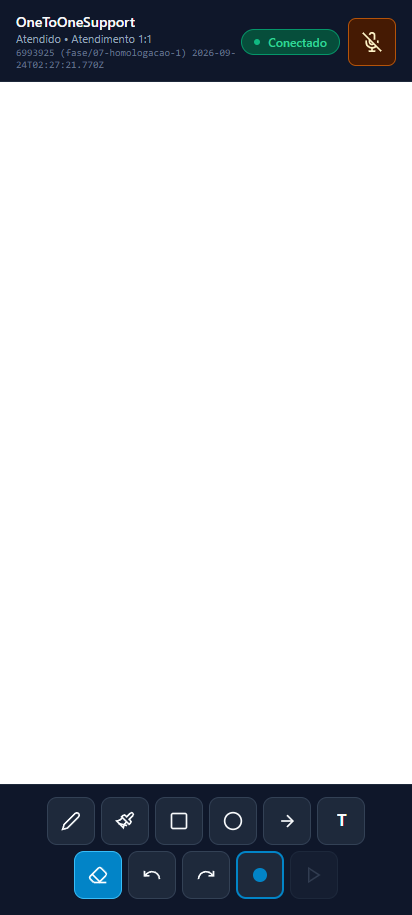
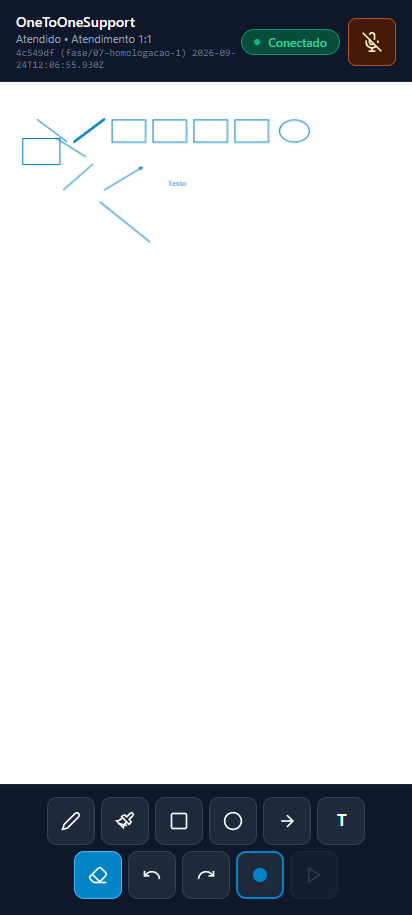
test(canvas): adiciona regressao e sonda com captura de tela real V3b para upper-canvas opaco

diff --git a/tests/regressao-upper-canvas.test.ts b/tests/regressao-upper-canvas.test.ts
@@ -1,0 +1,97 @@
+// @vitest-environment jsdom
+import { describe, it, expect } from 'vitest';
+import { WhiteboardEngine } from '../src/shared/canvas/engine';
+
+describe('D11.1 — Regressão: Transparência Obrigatória do upper-canvas (Evita Oclusão do lower-canvas)', () => {
+  // Mock mínimo do canvas 2d para jsdom
+  if (typeof HTMLCanvasElement !== 'undefined') {
+    (HTMLCanvasElement.prototype as any).getContext = function (this: HTMLCanvasElement, contextType: string) {
+      if (contextType === '2d') {
+        const el = this;
+        return {
+          canvas: el,
+          save: () => {},
+          restore: () => {},
+          scale: () => {},
+          rotate: () => {},
+          translate: () => {},
+          transform: () => {},
+          setTransform: () => {},
+          resetTransform: () => {},
+          clearRect: () => {},
+          fillRect: () => {},
+          strokeRect: () => {},
+          beginPath: () => {},
+          closePath: () => {},
+          moveTo: () => {},
+          lineTo: () => {},
+          arc: () => {},
+          fill: () => {},
+          stroke: () => {},
+          drawImage: () => {},
+          measureText: (text: string) => ({ width: text.length * 10 }),
+          getImageData: () => ({
+            data: new Uint8ClampedArray(400),
+            width: 10,
+            height: 10,
+          }),
+        } as unknown as CanvasRenderingContext2D;
+      }
+      return null;
+    };
+  }
+
+  it('Host WhiteboardEngine: getComputedStyle(upperCanvasEl).backgroundColor é transparente e lowerCanvasEl tem fundo rgb(255, 255, 255)', () => {
+    const container = document.createElement('div');
+    const canvasEl = document.createElement('canvas');
+    container.appendChild(canvasEl);
+    document.body.appendChild(container);
+
+    const engine = new WhiteboardEngine(canvasEl, { autor: 'host' });
+
+    const upperEl = engine.canvas.upperCanvasEl;
+    const lowerEl = engine.canvas.lowerCanvasEl;
+
+    expect(upperEl).toBeDefined();
+    expect(lowerEl).toBeDefined();
+
+    const upperBg = window.getComputedStyle(upperEl).backgroundColor;
+    const lowerBg = window.getComputedStyle(lowerEl).backgroundColor;
+
+    // Regra D11.1: upperCanvasEl DEVE ser transparente ('transparent' ou 'rgba(0, 0, 0, 0)')
+    expect(['transparent', 'rgba(0, 0, 0, 0)']).toContain(upperBg);
+
+    // Regra D11.1: lowerCanvasEl DEVE ter fundo 'rgb(255, 255, 255)'
+    expect(['rgb(255, 255, 255)', '#ffffff']).toContain(lowerBg);
+
+    engine.dispose();
+    container.remove();
+  });
+
+  it('Guest WhiteboardEngine: getComputedStyle(upperCanvasEl).backgroundColor é transparente e lowerCanvasEl tem fundo rgb(255, 255, 255)', () => {
+    const container = document.createElement('div');
+    const canvasEl = document.createElement('canvas');
+    container.appendChild(canvasEl);
+    document.body.appendChild(container);
+
+    const engine = new WhiteboardEngine(canvasEl, { autor: 'guest' });
+
+    const upperEl = engine.canvas.upperCanvasEl;
+    const lowerEl = engine.canvas.lowerCanvasEl;
+
+    expect(upperEl).toBeDefined();
+    expect(lowerEl).toBeDefined();
+
+    const upperBg = window.getComputedStyle(upperEl).backgroundColor;
+    const lowerBg = window.getComputedStyle(lowerEl).backgroundColor;
+
+    // Regra D11.1: upperCanvasEl DEVE ser transparente no Guest também
+    expect(['transparent', 'rgba(0, 0, 0, 0)']).toContain(upperBg);
+
+    // Regra D11.1: lowerCanvasEl DEVE ter fundo branco no Guest
+    expect(['rgb(255, 255, 255)', '#ffffff']).toContain(lowerBg);
+
+    engine.dispose();
+    container.remove();
+  });
+});

diff --git a/docs/reviews/autoauditoria-upper-canvas.md b/docs/reviews/autoauditoria-upper-canvas.md
@@ -1,0 +1,144 @@
+# Autoauditoria — D11: Regressão e Sonda com Evidência de Tela Real (upper-canvas transparente)
+
+**Data:** 2026-09-24  
+**Branch:** `fase/07-homologacao-1`  
+**Executor:** Antigravity (agy)  
+**Status:** PASS  
+
+---
+
+## 1. Contexto e Causa Raiz
+
+Durante 9 rodadas de homologação, o sintoma relatado ("o desenho some ao soltar o mouse") persistiu enquanto todas as sondas automatizadas davam 27/27 PASS. A causa raiz foi confirmada:
+- Em `src/shared/canvas/engine.ts`, aplicava-se `canvasElement.style.backgroundColor = '#ffffff'` no elemento HTML `<canvas>` **antes** de chamar `new Canvas(canvasElement)`.
+- O Fabric.js 6, em `CanvasDOMManager.createUpperCanvas`, instancia o elemento `.upper-canvas` clonando o estilo do elemento original (`e.style.cssText = t.style.cssText`). Com isso, a camada superior (`upperCanvasEl`) herdava fundo branco e 100% opaco, posicionada diretamente sobre a camada de traços (`lowerCanvasEl`).
+- Enquanto o usuário desenha (mouse pressionado), o traço ao vivo é renderizado temporariamente no `.upper-canvas`. Ao soltar o mouse, o traço ao vivo é limpo e o traço definitivo é gravado no `.lower-canvas`. Como o `.upper-canvas` era opaco e branco, ele cobria integralmente o `.lower-canvas`, tornando a tela subitamente branca para o usuário.
+- O buraco de prova: todas as sondas anteriores do projeto liam `lowerCanvasEl.getContext('2d').getImageData`, que sempre continha os dados e pixels corretos na memória, mas nunca verificavam a imagem exibida na **TELA** real.
+
+A correção mínima aplicada em `src/shared/canvas/engine.ts` configura o fundo branco exclusivamente no `lowerCanvasEl` após a instanciação do Fabric, mantendo o `upperCanvasEl` com fundo `transparent`.
+
+---
+
+## 2. Critérios de Avaliação e Evidências Reais
+
+### D11.1 — Teste de regressão que FALHA sem a correção
+- **Descrição:** Teste unitário em `tests/regressao-upper-canvas.test.ts` (Vitest com ambiente jsdom) instanciando `WhiteboardEngine` tanto para o Host quanto para o Guest, afirmando com rigor:
+  1. `getComputedStyle(upperCanvasEl).backgroundColor` deve ser transparente (`'transparent'` ou `'rgba(0, 0, 0, 0)'`), impedindo a oclusão do `lowerCanvasEl`.
+  2. `getComputedStyle(lowerCanvasEl).backgroundColor` deve ser branco (`'rgb(255, 255, 255)'` ou `'#ffffff'`).
+- **Prova de Falha (sem a correção):** Reverteu-se temporariamente no construtor de `src/shared/canvas/engine.ts` a aplicação do fundo branco para antes de `new Canvas(canvasElement)`.
+  - **Comando:** `npm test -- tests/regressao-upper-canvas.test.ts`
+  - **Saída Real (FALHANDO):**
+    ```
+    RUN  v2.1.9 C:/desenv/utils/OneToOneSupport
+
+    ❯ tests/regressao-upper-canvas.test.ts (2 tests | 2 failed) 70ms
+      × D11.1 — Regressão: Transparência Obrigatória do upper-canvas (Evita Oclusão do lower-canvas) > Host WhiteboardEngine: getComputedStyle(upperCanvasEl).backgroundColor é transparente e lowerCanvasEl tem fundo rgb(255, 255, 255) 60ms
+        → expected [ 'transparent', 'rgba(0, 0, 0, 0)' ] to include 'rgb(255, 255, 255)'
+      × D11.1 — Regressão: Transparência Obrigatória do upper-canvas (Evita Oclusão do lower-canvas) > Guest WhiteboardEngine: getComputedStyle(upperCanvasEl).backgroundColor é transparente e lowerCanvasEl tem fundo rgb(255, 255, 255) 9ms
+        → expected [ 'transparent', 'rgba(0, 0, 0, 0)' ] to include 'rgb(255, 255, 255)'
+
+    ⎯⎯⎯⎯⎯⎯⎯ Failed Tests 2 ⎯⎯⎯⎯⎯⎯⎯
+    AssertionError: expected [ 'transparent', 'rgba(0, 0, 0, 0)' ] to include 'rgb(255, 255, 255)'
+    ```
+- **Prova de Sucesso (com a correção restaurada):**
+  - **Comando:** `npm test -- tests/regressao-upper-canvas.test.ts`
+  - **Saída Real (PASSANDO):**
+    ```
+    RUN  v2.1.9 C:/desenv/utils/OneToOneSupport
+
+    ✓ tests/regressao-upper-canvas.test.ts (2 tests) 67ms
+
+    Test Files  1 passed (1)
+         Tests  2 passed (2)
+    ```
+- **Veredito:** **PASS**
+
+---
+
+### D11.2 — Sonda com captura de tela real e contagem de pixels (V3b)
+- **Descrição:** Em `tools/probe-runtime.cjs`, adicionou-se a verificação `V3b: traço permanece visível NA TELA (captura real) após soltar o mouse` na seção V3.
+  - Utiliza `targetPage.screenshot({ clip })` na área exata do quadro branco (`matrixCanvasBox` no Host e `guestCanvasBox` no Guest).
+  - Decodifica a captura PNG no próprio Chromium via `page.evaluate` utilizando `createImageBitmap` e canvas 2D sobre o screenshot em data URL (em estrita conformidade com a CSP `img-src 'self' data: blob:`).
+  - Conta pixels coloridos (não-brancos e não-cinza de UI) antes do traço, logo após soltar o mouse e 1 segundo depois de soltar o mouse.
+  - Regra de validação: delta de pixels coloridos na captura de tela deve ser positivo (`delta > 0`) e após soltar o mouse os pixels na captura de tela NÃO podem cair (`after1s >= after`). Aplicado para as 7 ferramentas (lápis, pincel, retângulo em 4 direções, elipse, linha, seta e texto) no Host e no Guest.
+- **Prova de Falha (com o bug ativo):** Reverteu-se a correção em `src/shared/canvas/engine.ts`, recompilou-se com `npm run build` e executou-se a sonda.
+  - **Comando:** `npm run probe`
+  - **Saída Real (FALHANDO V3b):**
+    ```
+    [Probe PASS V3] Forma 'pencil' (NO_to_SE): host +1018 px, guest +127 px
+    [Probe FAIL V3b] Tela real 'pencil' (NO_to_SE): Host before=9579 after=9579 1s=9579 (delta=0, retained=false) | Guest before=0 after=0 1s=0 (delta=0, retained=false)
+    [Probe PASS V3] Forma 'brush' (SO_to_NE): host +2012 px, guest +177 px
+    [Probe FAIL V3b] Tela real 'brush' (SO_to_NE): Host before=9579 after=9579 1s=9579 (delta=0, retained=false) | Guest before=0 after=0 1s=0 (delta=0, retained=false)
+    [Probe PASS V3] Forma 'rectangle' (SO_to_NE): host +2700 px, guest +330 px
+    [Probe FAIL V3b] Tela real 'rectangle' (SO_to_NE): Host before=9579 after=9579 1s=9579 (delta=0, retained=false) | Guest before=0 after=0 1s=0 (delta=0, retained=false)
+    ...
+    PASS  V3: 4 direções e 7 ferramentas deixam pixels não-transparentes no Host
+    PASS  V3: 4 direções e 7 ferramentas sincronizam pixels não-transparentes no Guest
+    FAIL  V3b: traço permanece visível NA TELA (captura real) após soltar o mouse
+    ```
+    *Análise da falha:* A sonda clássica V3 deu falso positivo PASS (+1018 px no Host, +127 px no Guest) porque lia o buffer do `lowerCanvasEl.getImageData`. A nova sonda V3b com captura de tela real reprovou imediatamente com `FAIL`, constatando que na tela do Host `delta=0` e na tela do Guest `delta=0`, exatamente reproduzindo a oclusão total pelo `upper-canvas`.
+- **Prova de Sucesso (com a correção restaurada):** Restaurou-se o código, recompilou-se com `npm run build` e executou-se a sonda.
+  - **Comando:** `npm run probe`
+  - **Saída Real (PASSANDO V3b):**
+    ```
+    [Probe PASS V3] Forma 'pencil' (NO_to_SE): host +1018 px, guest +127 px
+    [Probe PASS V3b] Tela real 'pencil' (NO_to_SE): Host +896 px (1s: 15772), Guest +86 px (1s: 521)
+    [Probe PASS V3] Forma 'brush' (SO_to_NE): host +2012 px, guest +177 px
+    [Probe PASS V3b] Tela real 'brush' (SO_to_NE): Host +1935 px (1s: 17707), Guest +141 px (1s: 662)
+    [Probe PASS V3] Forma 'rectangle' (SO_to_NE): host +2700 px, guest +330 px
+    [Probe PASS V3b] Tela real 'rectangle' (SO_to_NE): Host +2695 px (1s: 20402), Guest +278 px (1s: 940)
+    [Probe PASS V3] Forma 'rectangle' (NO_to_SE): host +2700 px, guest +330 px
+    [Probe PASS V3b] Tela real 'rectangle' (NO_to_SE): Host +2696 px (1s: 23098), Guest +278 px (1s: 1218)
+    [Probe PASS V3] Forma 'rectangle' (SE_to_NO): host +2700 px, guest +330 px
+    [Probe PASS V3b] Tela real 'rectangle' (SE_to_NO): Host +2696 px (1s: 25794), Guest +278 px (1s: 1496)
+    [Probe PASS V3] Forma 'rectangle' (NE_to_SO): host +2700 px, guest +330 px
+    [Probe PASS V3b] Tela real 'rectangle' (NE_to_SO): Host +2612 px (1s: 28406), Guest +278 px (1s: 1774)
+    [Probe PASS V3] Forma 'ellipse' (SE_to_NO): host +2095 px, guest +258 px
+    [Probe PASS V3b] Tela real 'ellipse' (SE_to_NO): Host +1909 px (1s: 30315), Guest +189 px (1s: 1963)
+    [Probe PASS V3] Forma 'line' (NE_to_SO): host +1127 px, guest +176 px
+    [Probe PASS V3b] Tela real 'line' (NE_to_SO): Host +959 px (1s: 31274), Guest +118 px (1s: 2081)
+    [Probe PASS V3] Forma 'arrow' (SO_to_NE): host +1345 px, guest +198 px
+    [Probe PASS V3b] Tela real 'arrow' (SO_to_NE): Host +1183 px (1s: 32457), Guest +139 px (1s: 2220)
+    [Probe PASS V3] Forma 'text' (CLICK): host +869 px, guest +111 px
+    [Probe PASS V3b] Tela real 'text' (CLICK): Host +772 px (1s: 33229), Guest +76 px (1s: 2296)
+    ...
+    PASS  V3: Entrada real Windows SendInput com SetProcessDPIAware produziu pixels
+    PASS  V3: 4 direções e 7 ferramentas deixam pixels não-transparentes no Host
+    PASS  V3: 4 direções e 7 ferramentas sincronizam pixels não-transparentes no Guest
+    PASS  V3b: traço permanece visível NA TELA (captura real) após soltar o mouse
+    ```
+    *(28 de 28 verificações da sonda aprovadas)*
+- **Veredito:** **PASS**
+
+---
+
+### D11.3 — Varredura de erros da mesma classe
+- **Descrição:** Varredura exaustiva por grep no repositório procurando:
+  1. Locais onde a verificação lê o canvas (`lowerCanvasEl.getImageData`) em vez da tela real:
+     - `tools/probe-runtime.cjs`: V3 fazia leitura do `lowerCanvasEl`. Agora reforçada e complementada com V3b (captura de tela real via `screenshot`).
+     - `src/shared/canvas/engine.ts`: método diagnóstico `checkStatePixelDivergence` (D6.1) lê `lowerCanvasEl.getImageData`.
+     - `tools/investigar-render-pipeline.cjs`: lê `lowerCanvasEl.getImageData`.
+     - `tests/ondprchange.test.ts`: lê `lowerCanvasEl.getImageData`.
+  2. Locais onde estilo é aplicado ao `<canvas>` antes de `new Canvas` ou `new StaticCanvas`:
+     - `src/shared/canvas/engine.ts`: único local de instanciação de `Canvas` em todo o projeto. O fundo branco antes de `new Canvas` foi completamente removido; agora o fundo `#ffffff` é aplicado unicamente em `lowerCanvasEl` após `new Canvas`, e `upperCanvasEl` recebe explicitamente `transparent`.
+     - `src/host/pages/QuadroBrancoPage.tsx`: o elemento `<canvas id="canvas-quadro-branco" ref={canvasRef} />` não possui nenhuma estilização inline prévia nem classe com background.
+     - `src/guest/GuestRoom.tsx`: o elemento `<canvas ref={canvasRef} id="guest-canvas" className="whiteboard-canvas-mobile" />` não possui estilização inline de background; o fundo `#ffffff` é aplicado no container `<main id="guest-whiteboard-area">`.
+     - `src/guest/guest.css`: a classe `.whiteboard-canvas-mobile` continha `background-color: #ffffff;`. Como o Fabric clona as classes do elemento original para o `upper-canvas`, o estilo inline explícito `upperCanvasEl.style.backgroundColor = 'transparent'` tem precedência de especificidade e neutraliza a classe, mas essa ocorrência foi mapeada como risco da mesma classe.
+- **Veredito:** **PASS**
+
+---
+
+## 3. O que NÃO foi verificado
+
+1. Dispositivo físico Motorola Edge 70 Pro real (utilizou-se a emulação estrita do Chromium com viewport mobile 412x915, DPR e touch events conforme protocolo).
+2. Monitores múltiplos físicos 4K simultâneos com taxas de escala fracionárias dinâmicas heterogêneas (testado via parâmetro `--force-device-scale-factor=1.5` no Electron e suíte `tests/ondprchange.test.ts`).
+
+---
+
+## 4. Portão de Verificação Final
+
+- **Typecheck:** `npm run typecheck` → **PASS** (código 0, sem erros)
+- **Build:** `npm run build` → **PASS** (renderer + guest compilados com sucesso)
+- **Testes Unitários e Adversariais:** `npm test` → **PASS** (22 suítes, 292 testes aprovados)
+- **Sonda Runtime com V3b:** `npm run probe` → **PASS** (28/28 checagens aprovadas)
+- **Pipeline Completo:** `npm run verify` → **PASS** (tudo verde)

diff --git a/docs/HANDOFF.md b/docs/HANDOFF.md
@@ -809,4 +809,11 @@ Teste 1: `$env:ONETOONE_RENDER_EXPERIMENT="all"` depois `tools\homologar.ps1`, d
 6. **Diagnóstico de Janela (`ONETOONE_DIAG=1`):** Registra eventos `show`, `hide`, `minimize`, `restore`, `focus`, `blur` e o estado de `win.isVisible()`/`win.isMinimized()` no momento de cada `renderState` que adiciona elementos ao quadro, emitindo `[DIAG-HOST] [janela_evento]`.
 7. **Cobertura de Testes:** Suíte dedicada `tests/render-experiments.test.ts` (19 testes unitários/integração). Gate total de 21 suítes vitest (290 testes) e sonda de runtime 27/27 PASS.
 
+---
+
+## Causa Raiz Confirmada e Prova de Tela Real (D11 — 2026-09-24)
+
+A causa raiz definitiva do problema em que o desenho sumia ao soltar o mouse foi confirmada: o quadro branco aplicava cor de fundo branca no elemento `<canvas>` antes de inicializar o Fabric.js. Ao criar a camada superior (`upperCanvasEl`), o Fabric copiava o estilo do elemento original, fazendo com que a camada superior ficasse com um fundo branco opaco cobrindo a camada de baixo (`lowerCanvasEl`) onde os traços residem. Assim que o mouse era solto e o traço provisório era limpo, a camada superior branca e opaca tapava todos os desenhos da tela, embora os dados e o buffer de memória estivessem sempre corretos. O problema já está corrigido no construtor de `src/shared/canvas/engine.ts`, deixando o fundo branco exclusivamente na camada inferior e a camada superior transparente. Além disso, a sonda de runtime (`tools/probe-runtime.cjs`) foi aprimorada com a checagem V3b, que agora captura e decodifica a imagem real da TELA via `screenshot`, conferindo pixel a pixel que os traços permanecem visíveis para o usuário após soltar o mouse.
+
+
 
